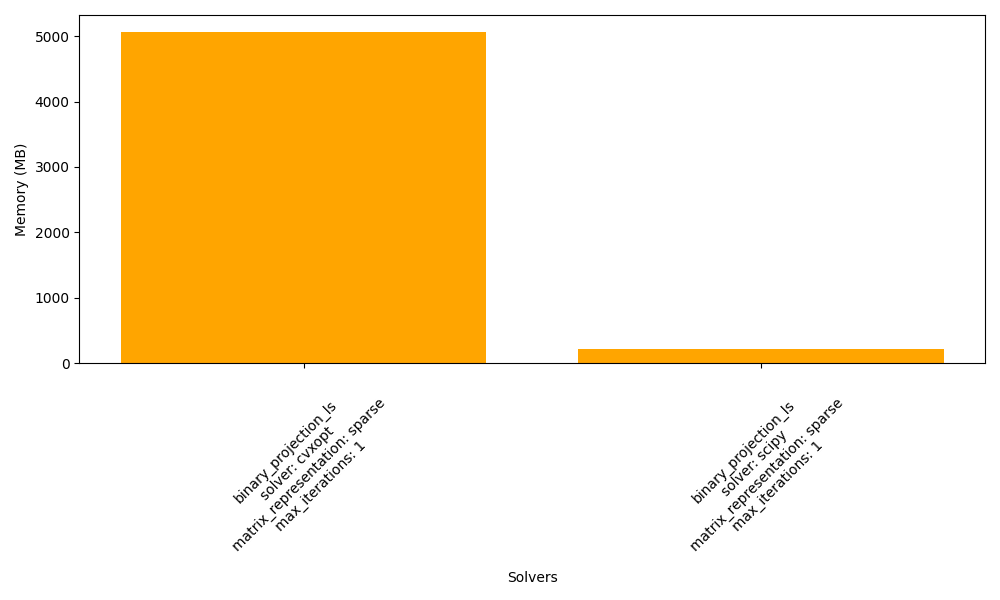
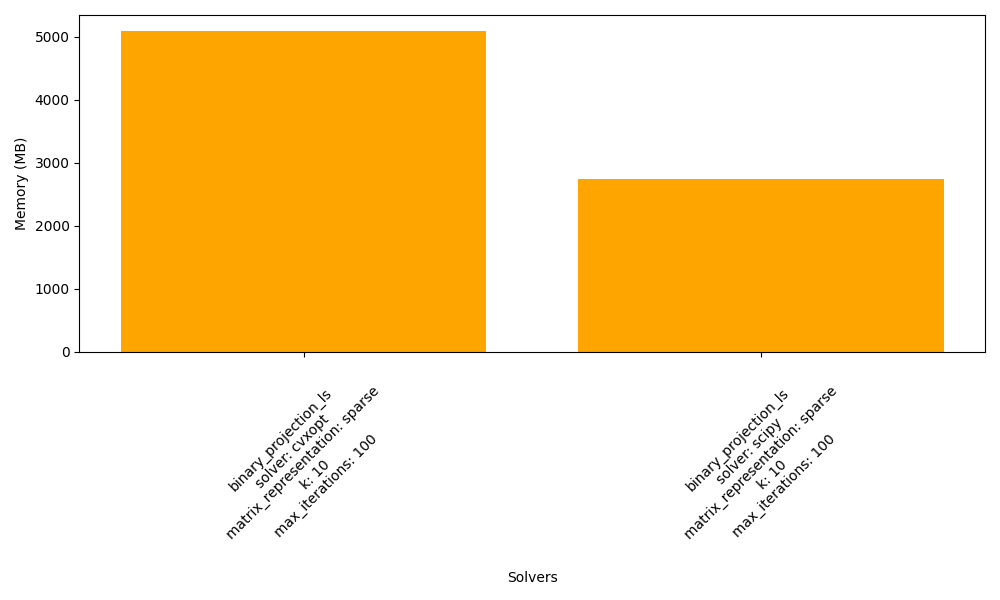
doc: added results

diff --git a/stringart/solver.py b/stringart/solver.py
@@ -387,7 +387,8 @@ class Solver:
 
             # Step 2: find top-k variables to fix to 1
             free_idx_array = np.where(free_indices)[0]
-            top_k_indices = np.argsort(-x_free)[:k]  # descending order
+            top_k = min(k, len(x_free))
+            top_k_indices = np.argsort(-x_free)[:top_k]  # descending order
             chosen_indices = free_idx_array[top_k_indices]
 
             for idx in chosen_indices:

diff --git a/stringart/experiments/binary_projection_ls.py b/stringart/experiments/binary_projection_ls.py
@@ -46,8 +46,6 @@ def main():
     benchmark.save_benchmarks(benchmark_results, "binary_projection")
     benchmark.run_analysis(benchmark_results, image, "binary_projection")
 
-    # TODO: document results
-
 
 if __name__ == "__main__":
     main()

diff --git a/docs/readmes/11_binary_projection_ls.md b/docs/readmes/11_binary_projection_ls.md
@@ -184,6 +184,27 @@ At the end of the iterative loop:
 
 - The result `x` is a **binary vector** that approximately minimizes the least squares error
 
+## Results
+
+![CVXOPT Result](../../benchmarks/img_outputs/binary_projection/image_000.png)
+![Scipy Result](../../benchmarks/img_outputs/binary_projection/image_001.png)
+
+> CVXOPT Result (left) and `scipy.optimize.lsq_linear` result (right)
+
+![Difference Images](../plots/binary_projection/Difference%20Images.png)
+
+> Difference Images
+
+![Time Usage](../plots/binary_projection/Time%20Usage.png)
+
+> Time Usage
+
+Although CVXOPT appears faster, this is misleading, its early stopping mechanism was triggered sooner, thus drawing less lines and reducing runtime but did not reflect actual computational efficiency.
+
+![Memory Usage](../plots/binary_projection/Memory%20Usage.png)
+
+> Memory Usage
+
 ## Bibliography
 
 - [Boyd & Vandenberghe — Convex Optimization, Chapter 4 (Free online)](https://web.stanford.edu/~boyd/cvxbook/)
